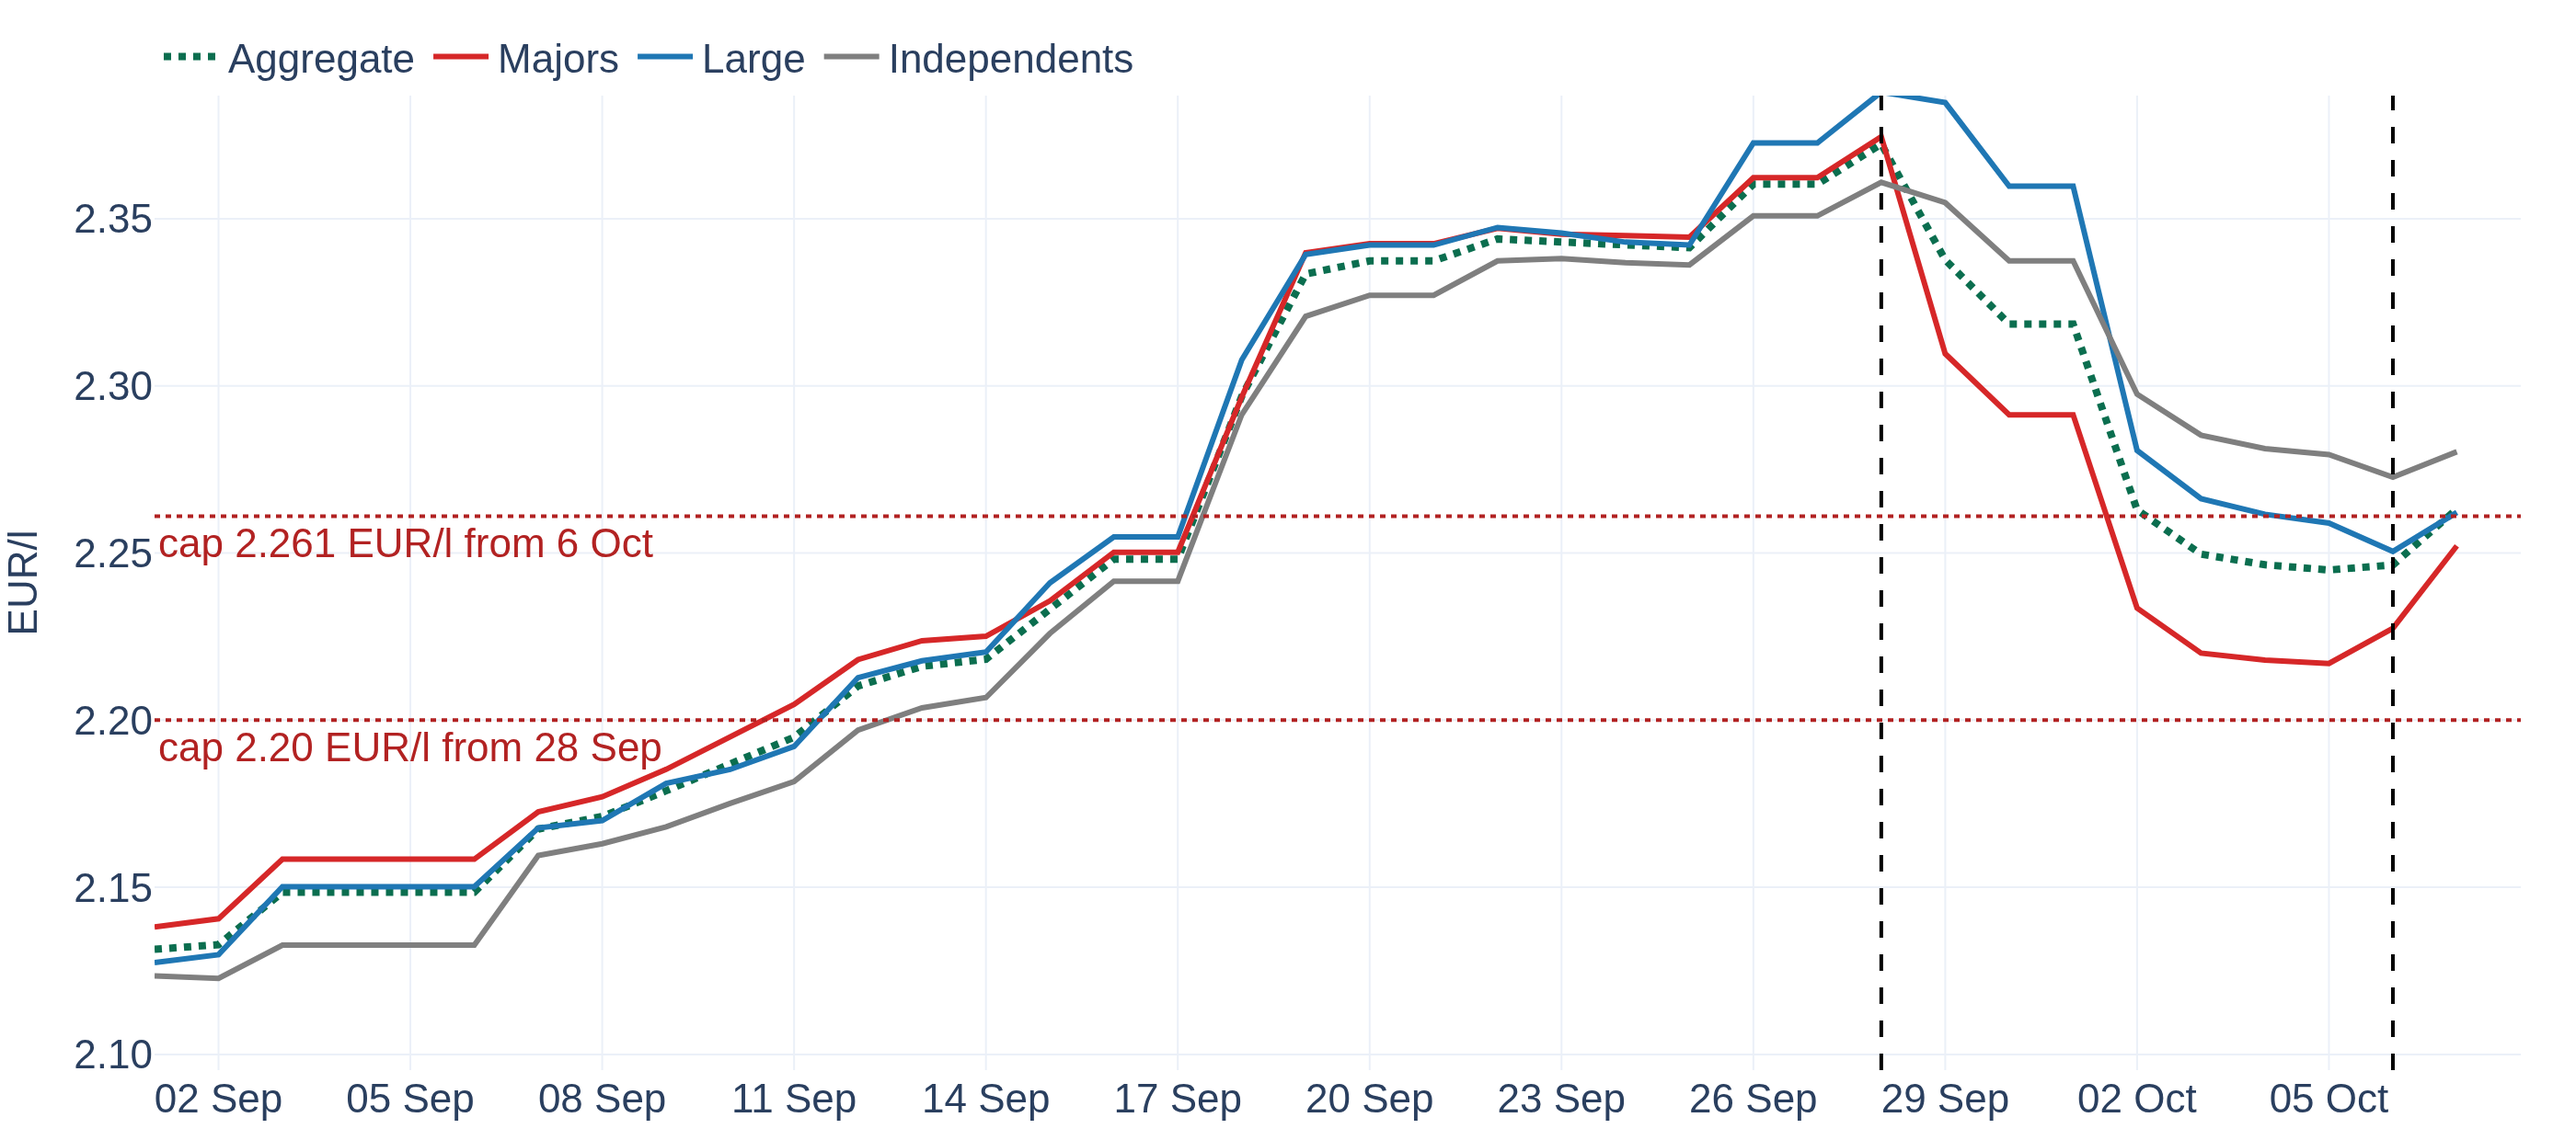
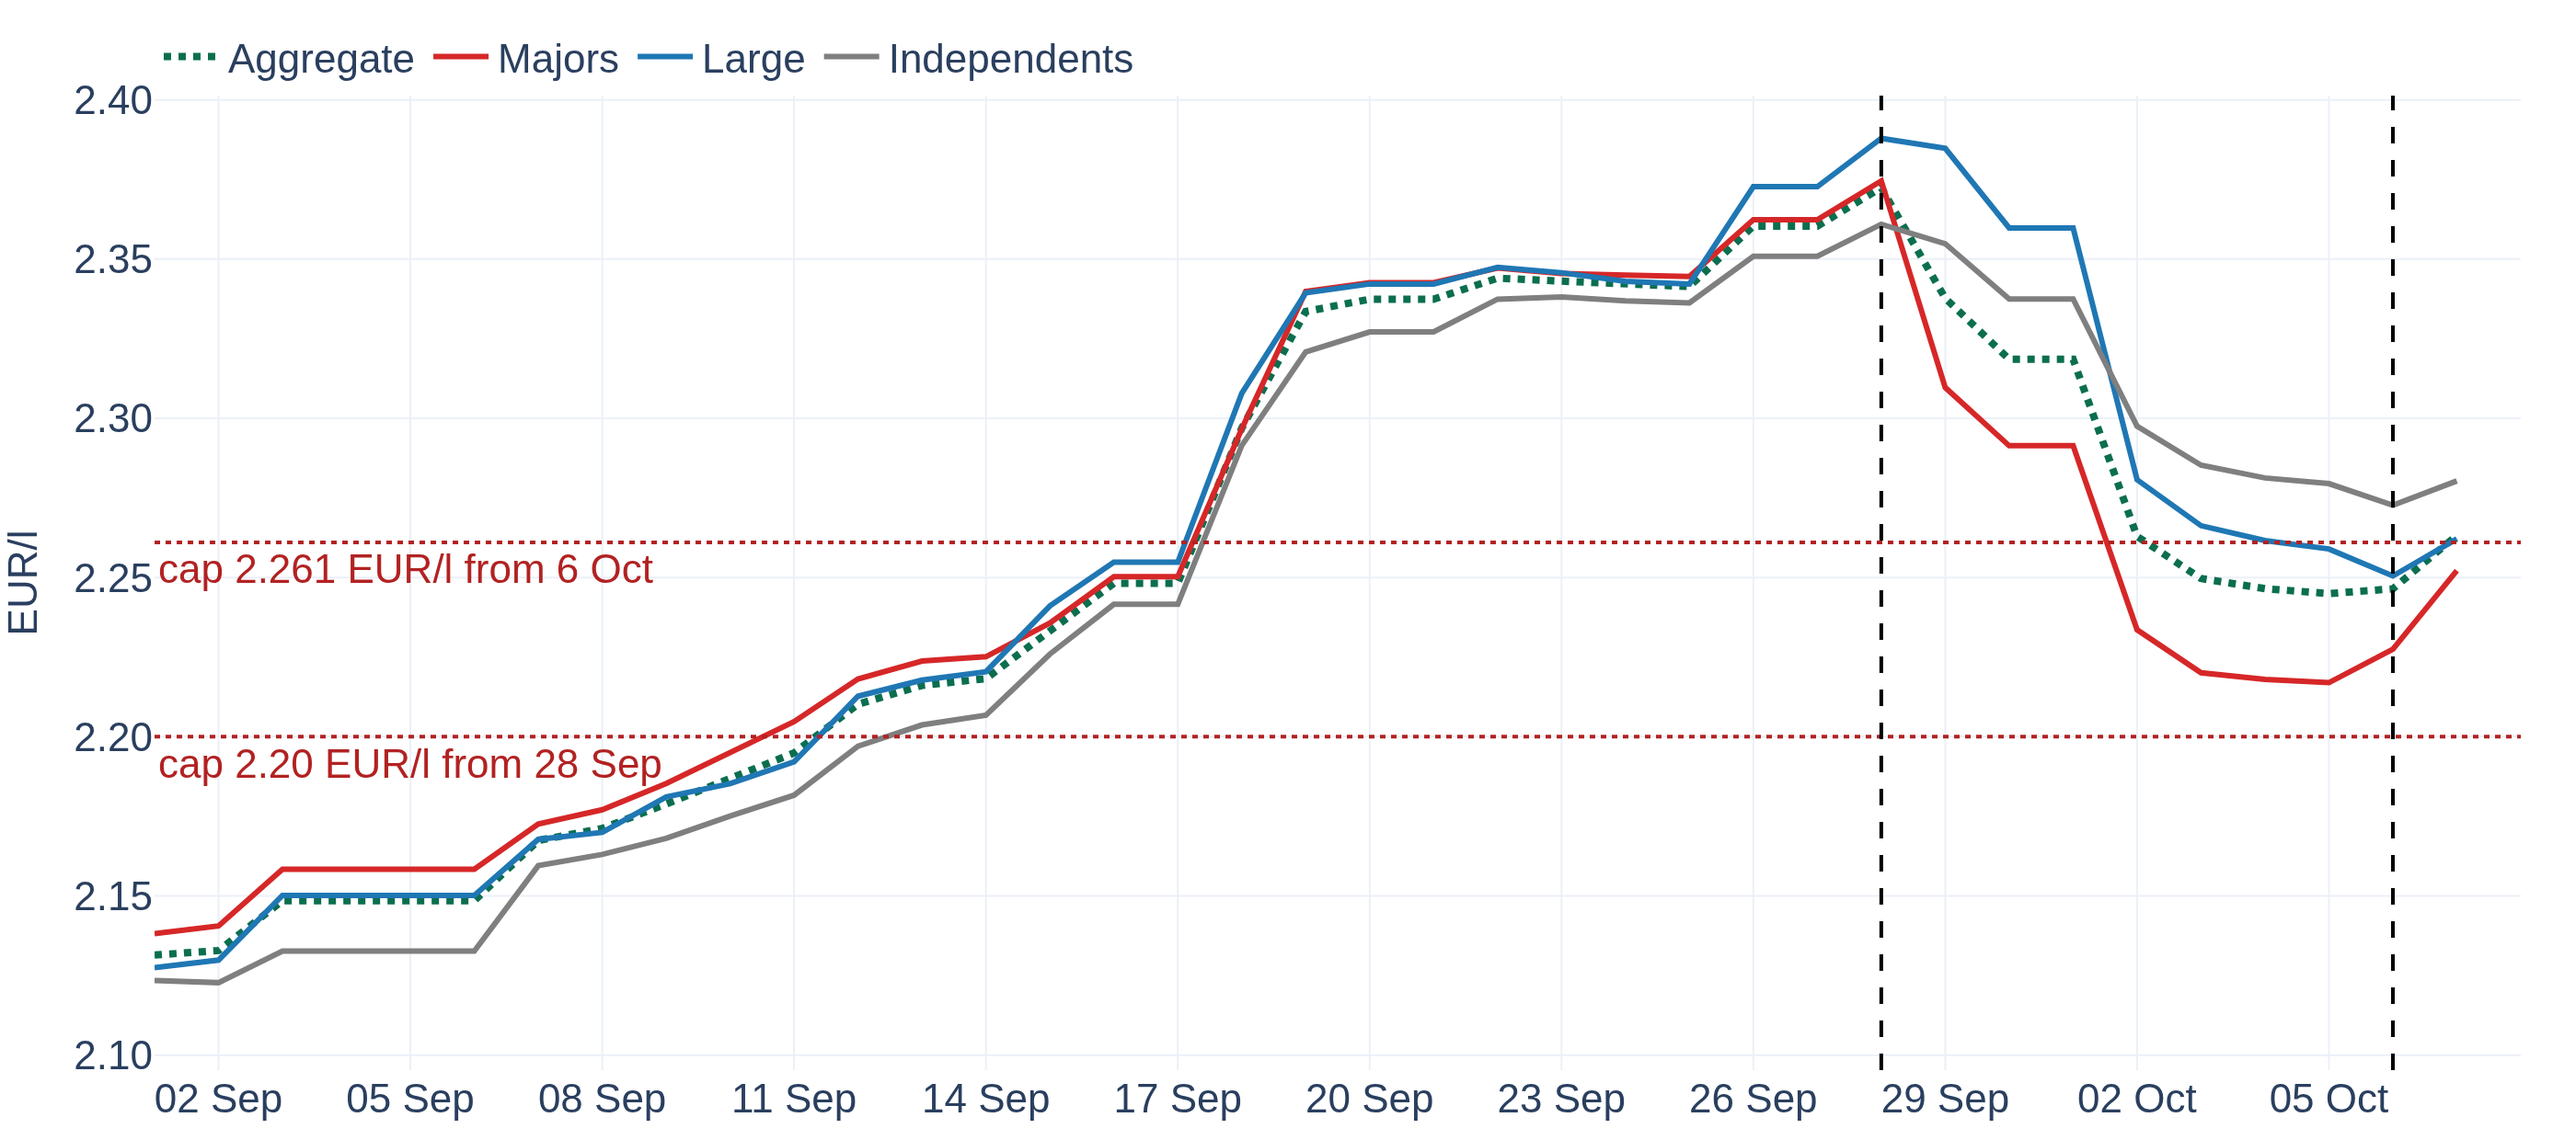
Report figures: more fig-2 headroom; re-render fig 3 textless panels
Fig 2: top y padding 6% -> 12% of range; the Independents/Large lines
were still grazing the top edge at the late-September peak.

Fig 3: re-render of the textless-panel layout (no red cap hlines, no
in-panel labels, 28 Sep vline in both panels, 6 Oct vline diesel-only,
'Cap adoption rate' y labels) — same code as the previous commit,
regenerated output for confirmation.

diff --git a/adoption/make_report_figs.py b/adoption/make_report_figs.py
@@ -116,6 +116,7 @@ def group_price_chart_en(fuel: str, show_excise_line: bool, stem: str) -> Path:
     y_min = min(y_lo, threshold, config.GASOLIO_CAP_AFTER) if fuel == "Gasolio" else min(y_lo, threshold)
     y_max = max(y_hi, threshold, config.GASOLIO_CAP_AFTER) if fuel == "Gasolio" else y_hi
     pad = (y_max - y_min) * 0.06
+    pad_hi = (y_max - y_min) * 0.12  # headroom: some series still got clipped
     pad_lo = pad * 2.5  # room for the hline label under the cap line
     fig.update_layout(
         font=dict(size=FONT),
@@ -133,7 +134,7 @@ def group_price_chart_en(fuel: str, show_excise_line: bool, stem: str) -> Path:
         range=[CUT, overall["date"].max() + dt.timedelta(days=1)],
     )
     fig.update_yaxes(
-        tickformat=".2f", range=[y_min - pad_lo, y_max + pad],
+        tickformat=".2f", range=[y_min - pad_lo, y_max + pad_hi],
         title=dict(text="EUR/l", font=dict(size=FONT)),
     )
     out = FIG / f"{stem}.png"
